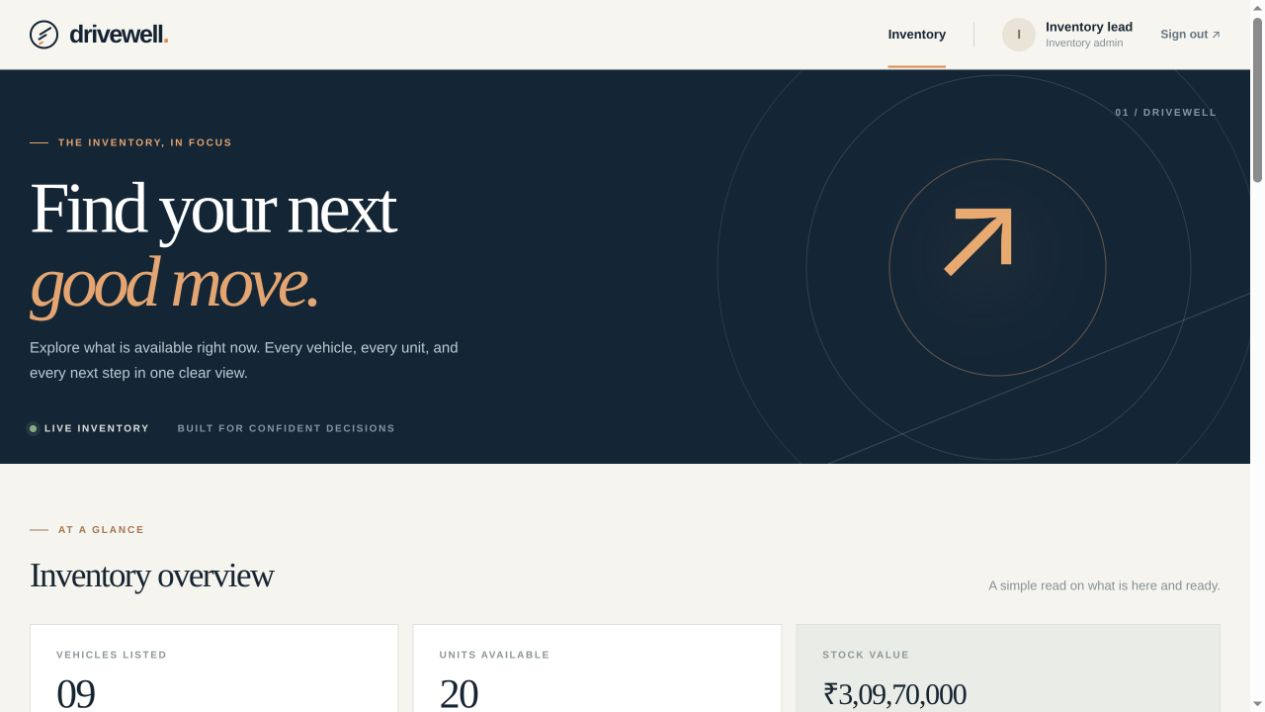
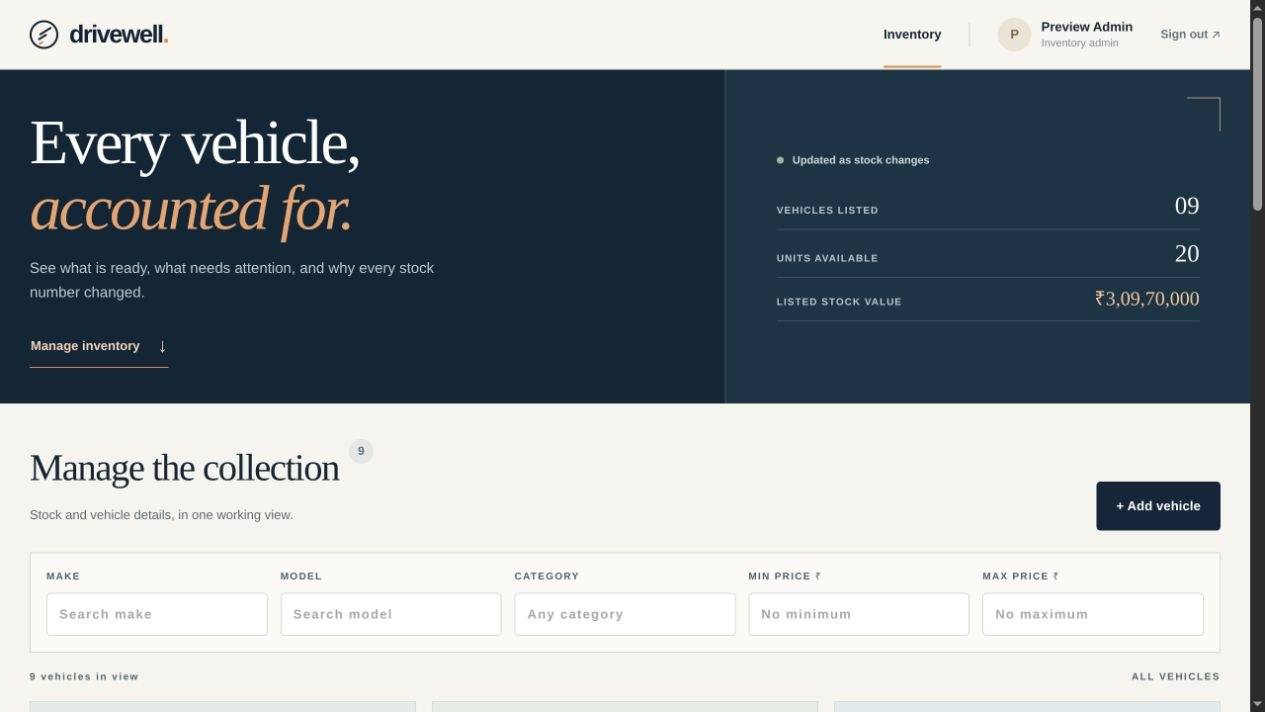
design: put live inventory and role-specific actions first
Use Impeccable guidance for a focused layout pass, category artwork,
and clearer buyer and admin paths. Refresh screenshots and rationale.

diff --git a/src/App.tsx b/src/App.tsx
@@ -37,17 +37,32 @@ function VehicleArt({ vehicle, large = false }: { vehicle: Vehicle; large?: bool
   const colors = ['#476a80', '#a8755a', '#718472', '#6b688f', '#b99153', '#51626c'];
   const index = [...vehicle.model].reduce((sum, character) => sum + character.charCodeAt(0), 0) % colors.length;
   const color = colors[index];
-  return <div className={`vehicle-art ${large ? 'vehicle-art-large' : ''}`} style={{ '--car-color': color } as React.CSSProperties} aria-hidden="true">
+  const category = vehicle.category.toLowerCase();
+  const shape = category.includes('suv') || category.includes('adventure') ? 'suv' : category.includes('family') ? 'mpv' : category.includes('electric') ? 'compact' : 'sedan';
+  const artId = `${vehicle.id}-${large ? 'dialog' : 'card'}`;
+  const bodies = {
+    sedan: 'M67 145 Q76 127 112 124 L159 119 Q182 75 230 69 L338 69 Q386 74 410 119 L453 127 Q473 132 480 148 L477 179 Q474 188 463 189 L69 189 Q56 185 56 175 L59 156 Q60 149 67 145Z',
+    suv: 'M51 141 Q63 127 114 124 L164 119 L188 78 Q197 65 222 65 L369 65 Q390 65 402 87 L426 123 L464 133 Q482 139 484 154 L481 178 Q479 188 464 189 L58 189 Q44 186 44 172 L44 153 Q44 145 51 141Z',
+    mpv: 'M57 143 Q68 126 110 122 L161 118 L189 82 Q201 68 224 68 L377 68 Q397 68 408 88 L432 124 L463 132 Q481 137 484 152 L481 178 Q479 188 464 189 L58 189 Q44 186 44 172 L45 153 Q46 147 57 143Z',
+    compact: 'M82 143 Q93 128 135 125 L176 119 L201 91 Q211 79 235 79 L354 79 Q376 79 391 104 L411 127 L454 135 Q471 140 476 154 L475 178 Q473 187 461 189 L82 189 Q66 187 65 173 L69 154 Q72 147 82 143Z',
+  };
+  const windows = {
+    sedan: 'M182 118 Q203 81 233 79 L288 79 L288 119Z M299 79 L337 79 Q373 83 392 119 L299 119Z',
+    suv: 'M186 116 L208 81 Q214 77 228 77 L288 77 L288 117Z M299 77 L366 77 Q382 78 389 95 L402 117 L299 117Z',
+    mpv: 'M181 116 L207 82 Q215 79 227 79 L294 79 L294 117Z M305 79 L371 79 Q388 80 396 98 L410 117 L305 117Z',
+    compact: 'M195 117 L218 94 Q224 89 236 89 L291 89 L291 119Z M302 89 L349 89 Q369 91 379 107 L390 120 L302 120Z',
+  };
+  return <div className={`vehicle-art vehicle-art-${shape} ${large ? 'vehicle-art-large' : ''}`} style={{ '--car-color': color } as React.CSSProperties} aria-hidden="true">
     <div className="art-orbit art-orbit-one" /><div className="art-orbit art-orbit-two" />
     <svg viewBox="0 0 520 235" role="presentation">
       <defs>
-        <linearGradient id={`body-${vehicle.id}`} x1="0" x2="1" y1="0" y2="1"><stop stopColor={color} /><stop offset="1" stopColor="#263646" /></linearGradient>
-        <linearGradient id={`glass-${vehicle.id}`} x1="0" x2="0" y1="0" y2="1"><stop stopColor="#d3e2e9" /><stop offset="1" stopColor="#8ea7b5" /></linearGradient>
+        <linearGradient id={`body-${artId}`} x1="0" x2="1" y1="0" y2="1"><stop stopColor={color} /><stop offset="1" stopColor="#263646" /></linearGradient>
+        <linearGradient id={`glass-${artId}`} x1="0" x2="0" y1="0" y2="1"><stop stopColor="#d3e2e9" /><stop offset="1" stopColor="#8ea7b5" /></linearGradient>
       </defs>
       <ellipse cx="262" cy="199" rx="210" ry="18" fill="#66757d" opacity=".14" />
-      <path d="M67 145 Q76 127 112 124 L159 119 Q182 75 230 69 L338 69 Q386 74 410 119 L453 127 Q473 132 480 148 L477 179 Q474 188 463 189 L69 189 Q56 185 56 175 L59 156 Q60 149 67 145Z" fill={`url(#body-${vehicle.id})`} />
-      <path d="M182 118 Q203 81 233 79 L288 79 L288 119Z M299 79 L337 79 Q373 83 392 119 L299 119Z" fill={`url(#glass-${vehicle.id})`} />
-      <path d="M289 79 L298 79 L299 120 L289 120Z" fill="#344a59" opacity=".7" />
+      <path d={bodies[shape]} fill={`url(#body-${artId})`} />
+      <path d={windows[shape]} fill={`url(#glass-${artId})`} />
+      <path d={shape === 'compact' ? 'M291 89 L302 89 L302 120 L291 120Z' : shape === 'suv' ? 'M288 77 L299 77 L299 117 L288 117Z' : 'M294 79 L305 79 L305 117 L294 117Z'} fill="#344a59" opacity=".7" />
       <path d="M99 136 L151 127 M407 126 L448 135" fill="none" stroke="#d5e0df" strokeWidth="4" opacity=".45" />
       <path d="M72 164 L106 164 M444 162 L469 162" stroke="#f2cf8b" strokeWidth="8" strokeLinecap="round" />
       <path d="M75 187 L461 187" stroke="#1b2936" strokeWidth="6" opacity=".6" />
@@ -55,7 +70,7 @@ function VehicleArt({ vehicle, large = false }: { vehicle: Vehicle; large?: bool
       <circle cx="389" cy="187" r="31" fill="#1d2932" /><circle cx="389" cy="187" r="19" fill="#c6cdd0" /><circle cx="389" cy="187" r="10" fill="#63727b" />
       <path d="M167 135 L382 135" stroke="#e8eded" strokeWidth="2" opacity=".45" />
     </svg>
-    <span className="art-caption">DRIVEWELL SELECTION / {vehicle.category.toUpperCase()}</span>
+    <span className="art-caption">{vehicle.category.toUpperCase()} / DRIVEWELL</span>
   </div>;
 }
 
@@ -255,6 +270,7 @@ function App() {
   const isAdmin = session.user.role === 'admin';
   const units = allVehicles.reduce((sum, vehicle) => sum + vehicle.quantity, 0);
   const value = allVehicles.reduce((sum, vehicle) => sum + vehicle.price * vehicle.quantity, 0);
+  const startingPrice = Math.min(...allVehicles.filter((vehicle) => vehicle.quantity > 0).map((vehicle) => vehicle.price));
   const hasFilters = Object.values(filters).some(Boolean);
 
   return <div className="app-shell">
@@ -264,18 +280,25 @@ function App() {
 
     <main>
       <section className="hero">
-        <div className="hero-grid"><div className="hero-copy"><span className="eyebrow light-eyebrow"><span className="eyebrow-line" /> THE INVENTORY, IN FOCUS</span><h1>Find your next<br /><em>good move.</em></h1><p>Explore what is available right now. Every vehicle, every unit, and every next step in one clear view.</p><div className="hero-foot"><span className="live-indicator"><i /> LIVE INVENTORY</span><span>BUILT FOR CONFIDENT DECISIONS</span></div></div><div className="hero-art" aria-hidden="true"><div className="hero-ring ring-a" /><div className="hero-ring ring-b" /><div className="hero-ring ring-c" /><span className="hero-art-number">01 / DRIVEWELL</span><span className="hero-arrow">↗</span></div></div>
+        <div className="hero-grid">
+          <div className="hero-copy">
+            <h1>{isAdmin ? <>Every vehicle,<br /><em>accounted for.</em></> : <>Find your next<br /><em>good move.</em></>}</h1>
+            <p>{isAdmin ? 'See what is ready, what needs attention, and why every stock number changed.' : 'A clearer way to choose: real availability, listed prices, and no surprises at the next step.'}</p>
+            <a className="hero-link" href="#inventory">{isAdmin ? 'Manage inventory' : 'Explore vehicles'} <span aria-hidden="true">↓</span></a>
+          </div>
+          <div className="hero-ledger" aria-label="Live inventory summary">
+            <span className="ledger-status"><i /> Updated as stock changes</span>
+            <dl>
+              <div><dt>VEHICLES LISTED</dt><dd>{String(allVehicles.length).padStart(2, '0')}</dd></div>
+              <div><dt>UNITS AVAILABLE</dt><dd>{String(units).padStart(2, '0')}</dd></div>
+              <div><dt>{isAdmin ? 'LISTED STOCK VALUE' : 'STARTING PRICE'}</dt><dd>{isAdmin ? rupees(value) : Number.isFinite(startingPrice) ? rupees(startingPrice) : '—'}</dd></div>
+            </dl>
+          </div>
+        </div>
       </section>
 
-      <section className="content-wrap">
-        <div className="overview-heading"><div><span className="eyebrow"><span className="eyebrow-line" /> AT A GLANCE</span><h2>Inventory overview</h2></div><p>A simple read on what is here and ready.</p></div>
-        <div className="metric-grid grid">
-          <div className="metric"><span className="metric-label">VEHICLES LISTED</span><strong>{allVehicles.length.toString().padStart(2, '0')}</strong><small>Across the inventory</small></div>
-          <div className="metric"><span className="metric-label">UNITS AVAILABLE</span><strong>{units.toString().padStart(2, '0')}</strong><small>Across the inventory</small></div>
-          <div className="metric metric-value"><span className="metric-label">STOCK VALUE</span><strong>{rupees(value)}</strong><small>Based on listed prices</small></div>
-        </div>
-
-        <div className="inventory-heading"><div><span className="eyebrow"><span className="eyebrow-line" /> THE COLLECTION</span><h2>Available vehicles<span className="heading-count">{vehicles.length}</span></h2><p>Good choices start with good information.</p></div>{isAdmin && <button className="button button-primary add-button" onClick={() => open('add')}>+ Add vehicle</button>}</div>
+      <section className="content-wrap" id="inventory">
+        <div className="inventory-heading"><div><h2>{isAdmin ? 'Manage the collection' : 'Explore the collection'}<span className="heading-count">{vehicles.length}</span></h2><p>{isAdmin ? 'Stock and vehicle details, in one working view.' : 'Browse what is here, including vehicles currently sold out.'}</p></div>{isAdmin && <button className="button button-primary add-button" onClick={() => open('add')}>+ Add vehicle</button>}</div>
         <div className="filters" aria-label="Vehicle filters">
           <label>MAKE<input value={filters.make} onChange={(event) => setFilters({ ...filters, make: event.target.value })} placeholder="Search make" /></label>
           <label>MODEL<input value={filters.model} onChange={(event) => setFilters({ ...filters, model: event.target.value })} placeholder="Search model" /></label>
@@ -284,11 +307,11 @@ function App() {
           <label>MAX PRICE ₹<input type="number" min="0" value={filters.maxPrice} onChange={(event) => setFilters({ ...filters, maxPrice: event.target.value })} placeholder="No maximum" /></label>
           {hasFilters && <button className="clear-button" onClick={() => setFilters(emptyFilters)}>Clear filters ×</button>}
         </div>
-        <div className="result-line"><span>{loading ? 'Updating inventory…' : `${vehicles.length} ${vehicles.length === 1 ? 'vehicle' : 'vehicles'} in view`}</span><span>{hasFilters ? 'FILTERED VIEW' : 'ALL VEHICLES'}</span></div>
+        <div className="result-line" aria-live="polite"><span>{loading ? 'Updating inventory…' : `${vehicles.length} ${vehicles.length === 1 ? 'vehicle' : 'vehicles'} in view`}</span><span>{hasFilters ? 'FILTERED VIEW' : 'ALL VEHICLES'}</span></div>
         {notice && <div className="notice" role="status"><span>{notice}</span><button aria-label="Dismiss message" onClick={() => setNotice('')}>×</button></div>}
-        {vehicles.length === 0 && !loading ? <div className="empty-state"><span className="empty-icon">↗</span><h3>{hasFilters ? 'No matches on this route.' : 'The showroom is being prepared.'}</h3><p>{hasFilters ? 'Try a wider search or clear the filters to see the full selection.' : 'Check back soon, or ask an inventory admin to add the first vehicle.'}</p>{hasFilters && <button className="button button-outline" onClick={() => setFilters(emptyFilters)}>Clear filters</button>}</div> : <div className="vehicle-grid grid">{vehicles.map((vehicle, index) => <article className="vehicle-card" key={vehicle.id}>
-          <div className="card-art-wrap"><VehicleArt vehicle={vehicle} /><span className="card-number">{String(index + 1).padStart(2, '0')} / DW</span></div>
-          <div className="card-body"><div className="card-meta"><span>{vehicle.category.toUpperCase()}</span><span className={`stock-pill ${vehicle.quantity === 0 ? 'sold-out' : vehicle.quantity === 1 ? 'low-stock' : ''}`}>{vehicle.quantity === 0 ? 'OUT OF STOCK' : vehicle.quantity === 1 ? 'LAST ONE' : `${vehicle.quantity} IN STOCK`}</span></div><h3>{vehicle.make} <span>{vehicle.model}</span></h3><div className="card-price"><span>LISTED PRICE</span><strong>{rupees(vehicle.price)}</strong></div><div className="card-actions"><button className="button button-primary purchase-button" disabled={vehicle.quantity === 0} onClick={() => open('purchase', vehicle)}>{vehicle.quantity === 0 ? 'Unavailable' : 'Purchase'} <span aria-hidden="true">↗</span></button>{isAdmin && <button className="button button-outline manage-button" onClick={() => open('edit', vehicle)}>Manage</button>}</div>{isAdmin && <div className="admin-card-actions"><button onClick={() => open('restock', vehicle)}>Restock</button><button onClick={() => open('history', vehicle)}>Stock history</button><button className="danger-link" onClick={() => open('delete', vehicle)}>Remove</button></div>}</div>
+        {vehicles.length === 0 && !loading ? <div className="empty-state"><span className="empty-icon">↗</span><h3>{hasFilters ? 'No matches on this route.' : 'The showroom is being prepared.'}</h3><p>{hasFilters ? 'Try a wider search or clear the filters to see the full selection.' : 'Check back soon, or ask an inventory admin to add the first vehicle.'}</p>{hasFilters && <button className="button button-outline" onClick={() => setFilters(emptyFilters)}>Clear filters</button>}</div> : <div className="vehicle-grid grid">{vehicles.map((vehicle) => <article className="vehicle-card" key={vehicle.id}>
+          <div className="card-art-wrap"><VehicleArt vehicle={vehicle} /></div>
+          <div className="card-body"><div className="card-meta"><span>{vehicle.category.toUpperCase()}</span><span className={`stock-pill ${vehicle.quantity === 0 ? 'sold-out' : vehicle.quantity === 1 ? 'low-stock' : ''}`}>{vehicle.quantity === 0 ? 'OUT OF STOCK' : vehicle.quantity === 1 ? 'ONLY 1 LEFT' : `${vehicle.quantity} IN STOCK`}</span></div><h3>{vehicle.make} <span>{vehicle.model}</span></h3><div className="card-price"><span>LISTED PRICE</span><strong>{rupees(vehicle.price)}</strong></div><div className="card-actions">{isAdmin ? <><button className="button button-primary" onClick={() => open('restock', vehicle)}>Restock <span aria-hidden="true">+</span></button><button className="button button-outline manage-button" onClick={() => open('edit', vehicle)}>Edit details</button></> : <button className="button button-primary purchase-button" disabled={vehicle.quantity === 0} onClick={() => open('purchase', vehicle)}>{vehicle.quantity === 0 ? 'Unavailable' : 'Purchase'} <span aria-hidden="true">↗</span></button>}</div>{isAdmin && <div className="admin-card-actions"><button onClick={() => open('history', vehicle)}>Stock history</button><button className="danger-link" onClick={() => open('delete', vehicle)}>Remove</button></div>}</div>
         </article>)}</div>}
       </section>
     </main>

diff --git a/src/styles.css b/src/styles.css
@@ -18,3 +18,79 @@ input{outline:none;border:1px solid #d8dbd8;border-radius:4px;background:#fff;co
 @media(max-width:980px){.vehicle-grid{grid-template-columns:repeat(2,minmax(0,1fr))}.hero-grid{grid-template-columns:1fr .6fr}.hero-art{opacity:.55}.filters{grid-template-columns:repeat(3,minmax(0,1fr))}.metric-value strong{font-size:24px}}
 @media(max-width:690px){.auth-shell{grid-template-columns:1fr}.auth-story{min-height:280px;padding:24px}.auth-story-content{padding:20px 0 10px}.auth-story h1{font-size:43px;max-width:440px;margin:12px 0}.auth-story-content p,.auth-road,.auth-story-footer{display:none}.auth-panel{padding:42px 24px 70px}.header-inner{padding:15px 19px}.site-header nav{gap:13px}.nav-active,.nav-divider,.user-text{display:none}.brand{font-size:22px}.hero-grid{display:block;min-height:0}.hero-copy{padding:48px 22px 30px}.hero h1{font-size:52px}.hero-copy p{font-size:14px}.hero-art{display:none}.hero-foot{font-size:8px;gap:12px;flex-wrap:wrap}.content-wrap{padding:42px 18px 70px}.overview-heading,.inventory-heading{align-items:start}.overview-heading>p{display:none}.overview-heading h2,.inventory-heading h2{font-size:31px}.metric-grid{grid-template-columns:repeat(2,minmax(0,1fr));margin-bottom:60px}.metric{min-height:125px;padding:18px}.metric strong{font-size:34px}.metric-value{grid-column:span 2;min-height:110px}.metric-value strong{font-size:28px}.inventory-heading{flex-direction:column}.filters{grid-template-columns:repeat(2,minmax(0,1fr));padding:13px;gap:10px}.filters label:nth-child(3){grid-column:span 2}.vehicle-grid{grid-template-columns:1fr}.vehicle-art{height:220px}.site-footer{padding:35px 20px;flex-wrap:wrap}.site-footer>span{order:3;width:100%}.modal-header,.vehicle-form,.dialog-content{padding-left:20px;padding-right:20px}}
 @media(max-width:390px){.form-grid{grid-template-columns:1fr}.form-grid label:nth-child(3){grid-column:auto}.site-header nav{gap:5px}.logout-button{font-size:11px}.hero h1{font-size:46px}.metric-value strong{font-size:23px}}
+
+/* Inventory-first layout: the live facts and search lead before the vehicle cards. */
+html{scroll-behavior:smooth}
+::selection{background:#e5af80;color:#142536}
+button:focus-visible,a:focus-visible,input:focus-visible{outline:3px solid #b46635;outline-offset:3px}
+.hero-grid{min-height:0;grid-template-columns:minmax(0,1.16fr) minmax(330px,.84fr)}
+.hero-copy{padding:40px 30px 36px;display:flex;flex-direction:column;align-items:flex-start;justify-content:center}
+.hero h1{font-size:clamp(46px,5vw,68px);letter-spacing:-.04em;line-height:1.04;margin:0 0 16px}
+.hero-copy p{font-size:15px;line-height:1.62;margin-bottom:20px;max-width:52ch}
+.hero-link{display:inline-flex;align-items:center;gap:18px;min-height:44px;color:#f4d3b6;font-size:13px;font-weight:750;text-decoration:none;border-bottom:1px solid #d48e59;padding:4px 1px}
+.hero-link span{font-size:20px;line-height:1;transition:transform .2s ease}
+.hero-link:hover span{transform:translateY(3px)}
+.hero-ledger{padding:34px clamp(28px,4vw,60px);display:flex;flex-direction:column;justify-content:center;background:#1d3445;border-left:1px solid #ffffff22;position:relative}
+.hero-ledger:after{content:"";position:absolute;right:30px;top:28px;width:34px;height:34px;border-top:1px solid #dfad81;border-right:1px solid #dfad81;opacity:.8}
+.ledger-status{display:flex;align-items:center;gap:9px;color:#cbd9d9;font-size:11px;font-weight:700;margin-bottom:14px}
+.ledger-status i{width:7px;height:7px;background:#98ba99;border-radius:50%}
+.hero-ledger dl{margin:0}
+.hero-ledger dl>div{display:flex;align-items:baseline;justify-content:space-between;gap:16px;border-bottom:1px solid #ffffff24;padding:11px 0}
+.hero-ledger dt{color:#b8c7cd;font-size:10px;font-weight:750;letter-spacing:.1em}
+.hero-ledger dd{font-family:Georgia,serif;font-size:25px;line-height:1;margin:0;color:#f7f5ee;white-space:nowrap;font-variant-numeric:tabular-nums}
+.hero-ledger dl>div:last-child dd{font-size:20px;color:#f3c49b}
+.content-wrap{padding-top:36px}
+.inventory-heading{margin-bottom:22px}
+.inventory-heading h2{font-size:clamp(31px,3vw,40px);margin:0;letter-spacing:-.035em}
+.inventory-heading p{margin-top:9px;color:#5d6c75;font-size:13px}
+.filters{margin-bottom:12px;padding:16px;background:#fbfaf7;border-color:#d7d9d5}
+.filters label{color:#4f606a;font-size:10px}
+.filters input{font-size:13px}
+.result-line{margin:17px 0;color:#54656e}
+.vehicle-grid{gap:16px}
+.vehicle-card{border-color:#daddd8}
+.vehicle-art{height:190px;background:#e5ebea;border-bottom:1px solid #d4dedb}
+.vehicle-art-suv{background:#e5e9e3}
+.vehicle-art-mpv{background:#e8ece6}
+.vehicle-art-compact{background:#e3eaec}
+.vehicle-art:before{content:"";position:absolute;left:0;right:0;bottom:30px;border-top:1px solid #ffffffb0}
+.art-orbit{display:none}
+.art-caption{color:#5d747d;font-size:9px;right:17px;bottom:12px}
+.vehicle-card h3{margin:16px 0 22px}
+.stock-pill{font-size:9px;font-weight:850;padding:7px 8px}
+.card-actions .button{min-height:44px}
+.admin-card-actions{border-top:1px solid #e5e6e0;margin-top:14px;padding-top:12px}
+.admin-card-actions button{min-height:36px}
+.vehicle-card:focus-within{box-shadow:0 0 0 2px #c98c5e}
+
+@media(max-width:980px){
+  .hero-grid{grid-template-columns:minmax(0,1fr) minmax(270px,.8fr)}
+  .hero-ledger{padding:28px}
+  .hero-ledger dd{font-size:22px}
+  .hero-ledger dl>div:last-child dd{font-size:17px}
+}
+@media(max-width:690px){
+  .hero-grid{display:block}
+  .hero-copy{padding:34px 22px 25px}
+  .hero h1{font-size:clamp(44px,11vw,56px)}
+  .hero-copy p{margin-bottom:13px}
+  .hero-ledger{border-left:0;border-top:1px solid #ffffff22;padding:18px 22px 21px}
+  .hero-ledger:after{display:none}
+  .ledger-status{margin-bottom:5px}
+  .hero-ledger dl{display:grid;grid-template-columns:repeat(3,minmax(0,1fr));gap:10px}
+  .hero-ledger dl>div{display:flex;flex-direction:column;gap:7px;border-bottom:0;border-right:1px solid #ffffff24;padding:10px 6px 0 0}
+  .hero-ledger dl>div:last-child{border-right:0}
+  .hero-ledger dt{font-size:8px;line-height:1.3}
+  .hero-ledger dd{font-size:21px}
+  .hero-ledger dl>div:last-child dd{font-size:15px}
+  .content-wrap{padding-top:30px}
+  .inventory-heading{gap:14px}
+  .inventory-heading h2{font-size:32px}
+  .vehicle-art{height:205px}
+}
+@media(max-width:390px){
+  .hero-ledger dl{gap:6px}
+  .hero-ledger dd{font-size:19px}
+  .hero-ledger dl>div:last-child dd{font-size:13px}
+}
+@media(prefers-reduced-motion:reduce){html{scroll-behavior:auto}.hero-link span,.vehicle-card{transition:none}}

diff --git a/README.md b/README.md
@@ -21,7 +21,11 @@ A purchase records an inventory change and reduces stock by one. **This demo doe
 
 ![Inventory overview](docs/screenshots/inventory-overview.jpg)
 
+![Buyer overview with live availability and starting price](docs/screenshots/buyer-overview.jpg)
+
 ![Vehicle cards with stock state and admin actions](docs/screenshots/vehicle-cards.jpg)
+
+![Buyer vehicle cards](docs/screenshots/buyer-cards.jpg)
 
 ![Sold-out vehicle with purchase disabled](docs/screenshots/sold-out-state.jpg)
 
@@ -100,10 +104,17 @@ Vehicle input example:
 
 The stock history and guarded final-unit purchase are deliberately practical additions. They address the moments where a dealership employee or buyer needs trust in the number on the screen. The interface uses plain labels, visible availability, clear confirmation, and recovery messages so the system feels considerate rather than decorative.
 
+### Design choices
+
+- The inventory summary and search sit near the top so a buyer or employee can get to the current stock quickly. The buyer sees the lowest price among vehicles actually in stock; the admin sees the listed value of available units.
+- The same card answers different questions by role. Buyers see an available purchase action or a clear unavailable state. Admins see restock and edit first, with stock history and removal as separate decisions.
+- Category-based illustrations give the collection character without implying that they are photos of the exact listed cars. Stock counts and prices remain text rather than information carried only by color or decoration.
+- The language stays honest: a purchase records stock and a receipt in this demo, and the confirmation says no payment is taken.
+
 ## My AI Usage
 
 I used **OpenAI Codex (GPT-6)** extensively as a development partner for this assignment. I supplied the assignment, job description, deadline, privacy constraints, and a direction to build something distinctive and human-centered. Codex helped map requirements, draft tests and implementation, design the original interface, debug the browser workflow, and write documentation. The Git commits that contain AI-assisted work carry a `Co-authored-by` trailer.
 
-The tests and browser review were important checks on the generated work. They exposed details that needed correction, including totals that initially followed the filtered list and purchase copy that could imply payment was taken. Those were changed before submission. AI made it possible to cover the full stack quickly, but it did not remove the need to check behavior, state the limits clearly, and understand the tradeoffs. I would explain the SQLite choice, role model, conditional purchase update, test history, and UI decisions in an interview.
+The tests and browser review were important checks on the generated work. They exposed details that needed correction, including totals that initially followed the filtered list, purchase copy that could imply payment was taken, and an adventure vehicle drawn with a sedan silhouette. Those were changed before submission. AI made it possible to cover the full stack quickly, but it did not remove the need to check behavior, state the limits clearly, and understand the tradeoffs. I would explain the SQLite choice, role model, conditional purchase update, test history, and UI decisions in an interview.
 
 The required raw AI conversation record or public chat link is in [PROMPTS.md](PROMPTS.md). The assignment PDF and job description stay outside this repository; the local handover note is Git ignored.

diff --git a/PROMPTS.md b/PROMPTS.md
@@ -149,3 +149,43 @@ The required features, browser screenshots, README draft, and test report are in
 The code and documentation commits are ready, and the private assignment files are still outside Git. I’m generating the required public chat link for `PROMPTS.md`; once it’s recorded, I’ll make the final privacy check and publish the commits.
 ~~~
 
+## UI refinement follow-up — 2026-10-24
+
+The following are verbatim message bodies from the follow-up in which the user authorized the UI work. Tool calls and outputs are omitted.
+
+### User
+
+~~~text
+ok how to go about it?
+~~~
+
+### User
+
+~~~text
+feel free to do
+~~~
+
+### Assistant
+
+~~~text
+I’ll make a focused UI pass now. I’m using the skill installer to bring Impeccable into this project, then I’ll review Drivewell’s current screens, build a distinct visual direction, and check the buyer and admin flows before showing you the result.
+~~~
+
+### Assistant
+
+~~~text
+I’m keeping this as a reviewable design branch. The first pass will bring search and stock information forward, give the vehicles more character, and make admin actions easier to distinguish from buying. I’ll preserve the working API flows.
+~~~
+
+### Assistant
+
+~~~text
+The admin view now puts live stock and filters near the top, and the cards give stock work a clear primary action. I’m checking the buyer view and the small screen layout next, then I’ll run the project checks and save the design rationale.
+~~~
+
+### Assistant
+
+~~~text
+The buyer flow now shows the lowest in-stock price, keeps sold-out vehicles visible, and narrows correctly when a filter is used. I also found a small illustration issue during review: the adventure vehicle was using the sedan shape, so I corrected its category cue and refreshed the screenshots.
+~~~
+

diff --git a/TEST_REPORT.md b/TEST_REPORT.md
@@ -16,7 +16,7 @@ Verified on **24 October 2026** with Node.js 24.19.0 and Vitest 3.2.7.
 
 The suite checks buyer registration and login, configured admin password changes across restart, input validation, duplicate email handling, admin permissions, multi-field search, atomic purchase of the final unit, restock/update/delete history, persistence across restart, and idempotent demo seeding. Branch coverage is lower than line coverage because some failure branches and transaction rollback paths are not exercised.
 
-Manual browser checks covered admin sign-in, make filtering, restocking, the receipt flow, and a disabled purchase button for zero stock. Screenshots in `docs/screenshots/` show the rendered interface.
+Manual browser checks covered admin sign-in, make filtering, restocking, the receipt flow, and a disabled purchase button for zero stock. The October 24 UI refinement was reviewed in the browser with a disposable demo database: admin and buyer overviews, buyer registration, make filtering, stock and category cues, and the restock dialog. Screenshots in `docs/screenshots/` show the rendered interface. The API suite and production build passed again after the UI changes.
 
 Reproduce the report with:
 
